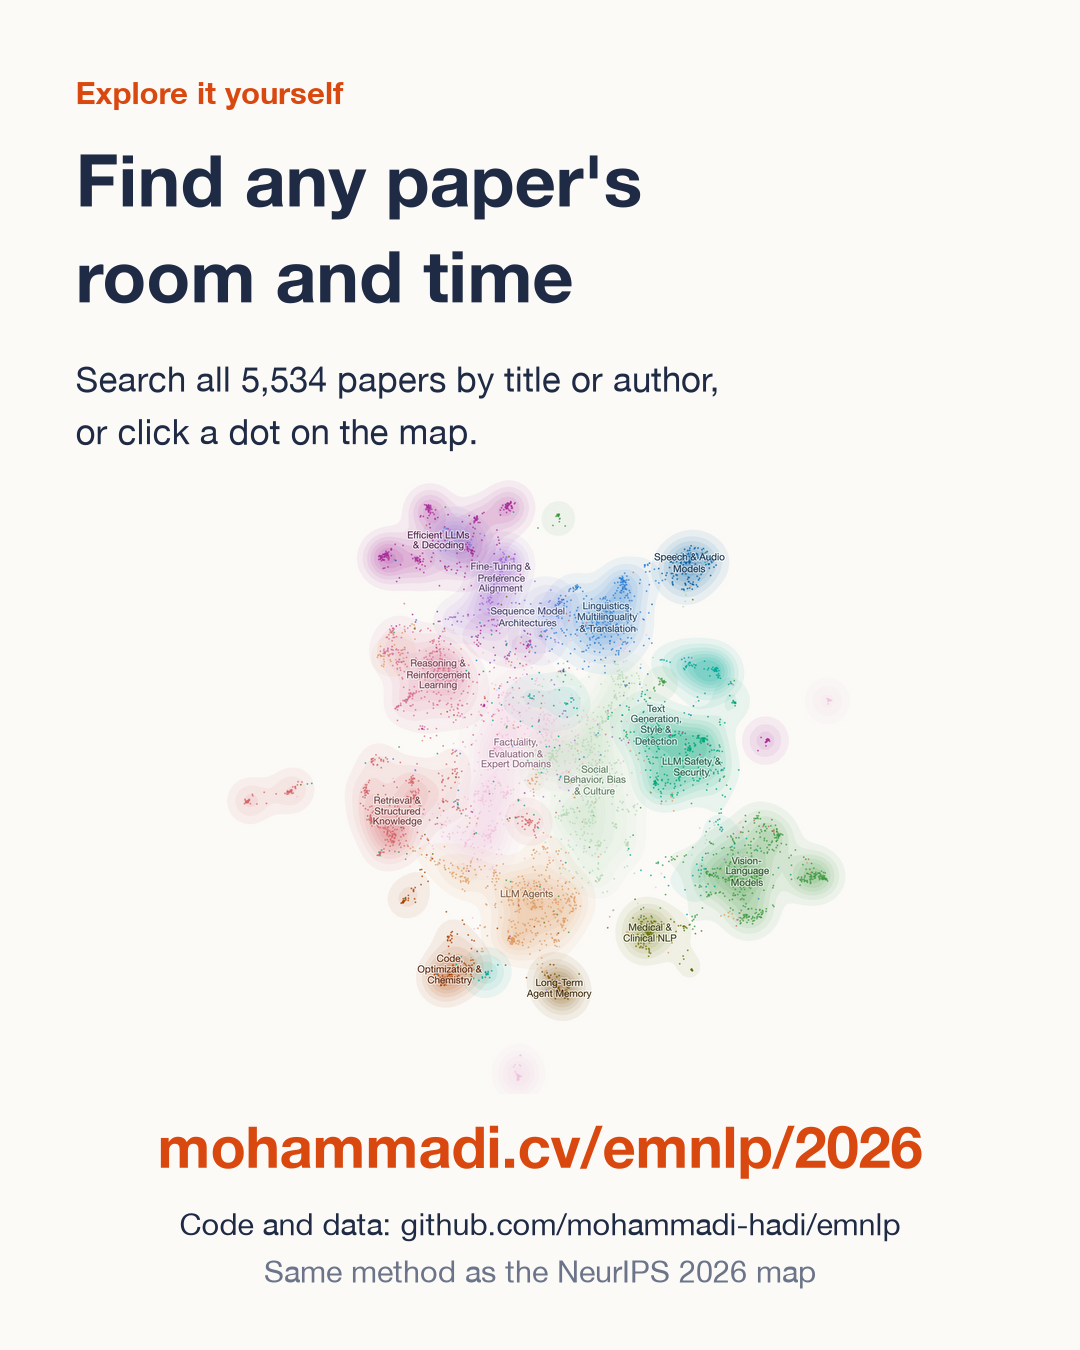
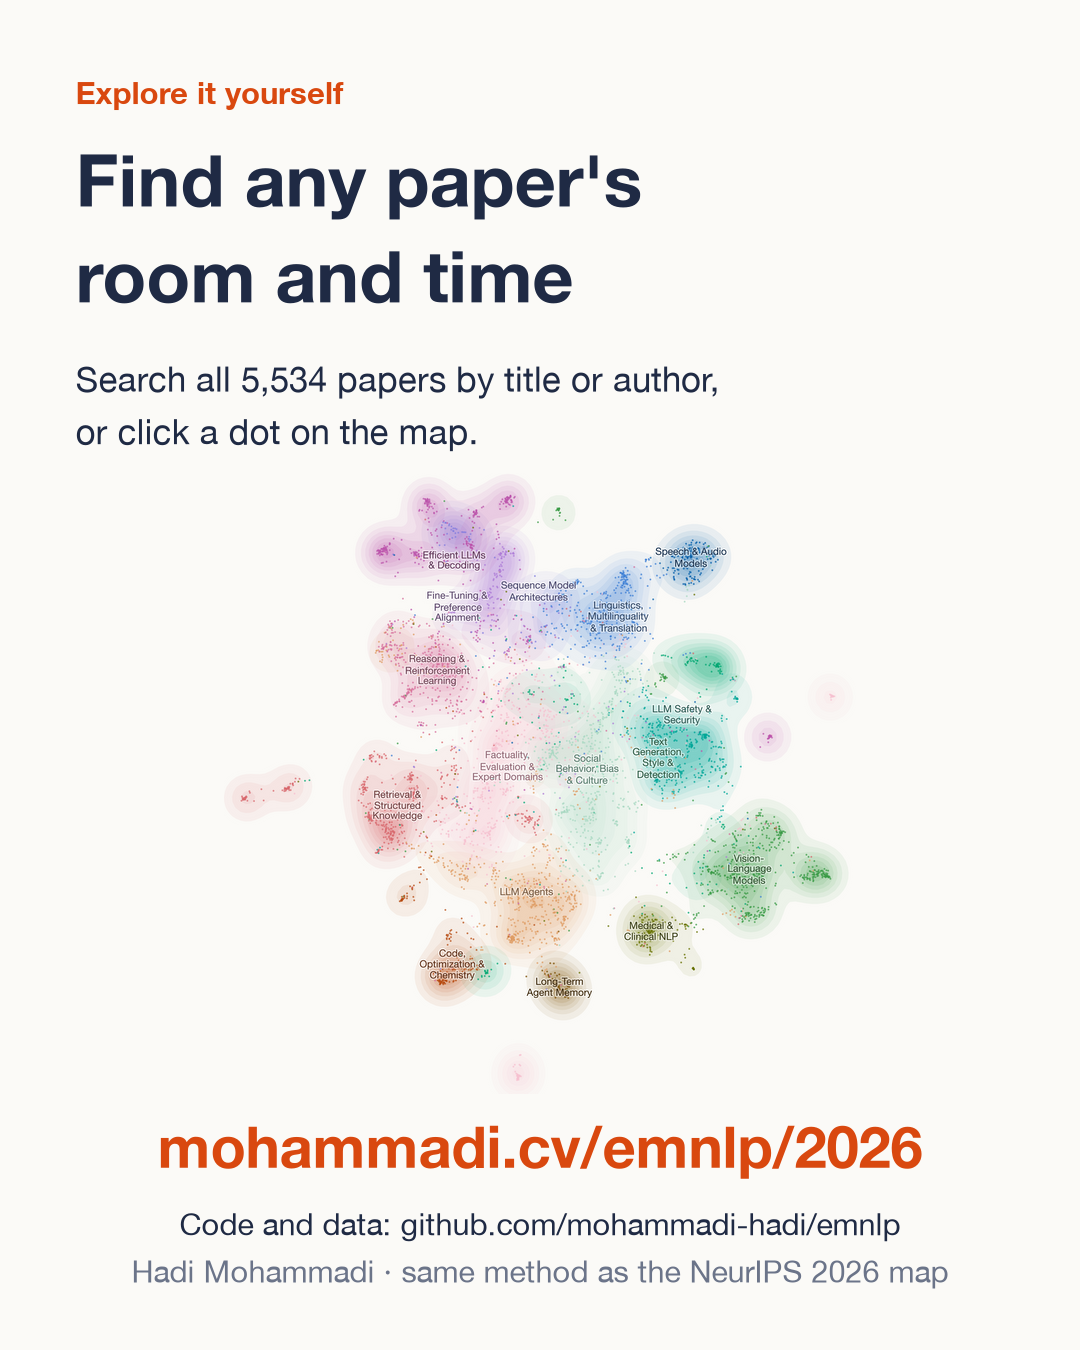
Put the name and web address on every card

diff --git a/src/14_carousel.py b/src/14_carousel.py
@@ -143,7 +143,7 @@ def draw_cover(fig, box):
     pal = plt.get_cmap("tab20")
     ax.scatter(dc.x, dc.y, s=2.6, c=[pal(int(b) % 20) for b in dc.broad], alpha=0.85, linewidths=0)
     label_areas(ax, COVER_NAMES, 13)
-    fig.text(0.07, 0.035, f"{AUTHOR} · {CITY} · {when}", fontsize=9.5, color=MUTED)
+    fig.text(0.07, 0.035, f"{AUTHOR} · {URL} · {CITY}, {when.replace('October ', 'Oct ')}", fontsize=9.5, color=MUTED)
 
 
 card("1_cover.png", "Paper atlas", f"EMNLP {CUR}\non one map",
@@ -293,7 +293,7 @@ def draw_explore(fig, box):
     ax.imshow(crop.astype(np.uint8), interpolation="lanczos"); ax.axis("off")
     fig.text(0.5, 0.135, URL, fontsize=21, fontweight="bold", color=ACC, ha="center")
     fig.text(0.5, 0.085, f"Code and data: {REPO}", fontsize=11, color=INK, ha="center")
-    fig.text(0.5, 0.05, f"Same method as the NeurIPS {CUR} map", fontsize=11, color=MUTED, ha="center")
+    fig.text(0.5, 0.05, f"{AUTHOR} · same method as the NeurIPS {CUR} map", fontsize=11, color=MUTED, ha="center")
 
 
 card("6_explore.png", "Explore it yourself", "Find any paper's\nroom and time",
